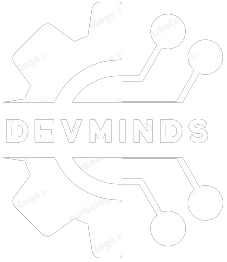
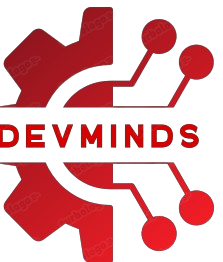
Footer add

diff --git a/src/components/footer/footer.tsx b/src/components/footer/footer.tsx
@@ -1,14 +1,16 @@
 import Box from '@mui/material/Box';
 import Typography from '@mui/material/Typography';
-import Container from '@mui/material/Container';
+import { MdFacebook, MdWhatsapp } from "react-icons/md"
 import Link from '@mui/material/Link';
+import Logo from "./../../assets/s.png"
+import Image from 'next/image';
 
 function Copyright() {
   return (
-    <Typography variant="body2" sx={{color:'#da0037'}}>
+    <Typography variant="body2" sx={{ color: '#da0037' }}>
       {'Copyright © '}
-      <Link color="inherit" href="https://devminds.uz/">
-        Your Website
+      <Link color="inherit" style={{marginRight:'5px'}} href="https://devminds.uz/">
+        One Team Group 
       </Link>
       {new Date().getFullYear()}
       {'.'}
@@ -18,6 +20,7 @@ function Copyright() {
 
 
 export default function StickyFooter() {
+
   return (
     <Box
       component="footer"
@@ -28,12 +31,30 @@ export default function StickyFooter() {
         backgroundColor: "#171718"
       }}
     >
-      <Container maxWidth="sm">
-        <Typography variant="body1" sx={{color:"#ededed"}}>
-          My Personal Blog App
-        </Typography>
-        <Copyright />
-      </Container>
+      <Box sx={{ display: 'flex', justifyContent: 'space-between', flexDirection: 'row', sm: { flexDirection: 'column' } }}>
+        <Box sx={{ display: 'flex', alignItems: 'center', gap: '5px' }}>
+          <Image
+            src={Logo}
+            width={40}
+            height={40}
+            alt="Picture of the logo"
+          />
+          <Typography variant='h5' color={'#da0037'}>
+            Dev Blog
+          </Typography >
+        </Box>
+        <Box>
+          <Box sx={{ display: 'flex', justifyContent: 'center', gap: '10px' }}>
+            <Link href="https://devminds.uz" color={'#da0037'}>
+              <MdFacebook className='icon' />
+            </Link>
+            <Link href="https://devminds.uz" color={'#da0037'}>
+              <MdWhatsapp className='icon' />
+            </Link>
+          </Box>
+          <Copyright />
+        </Box>
+      </Box>
     </Box>
   );
 }

diff --git a/src/pages/index.tsx b/src/pages/index.tsx
@@ -5,7 +5,7 @@ import { Box } from "@mui/material";
 import { useEffect } from "react";
 import { BlogService } from "../services/blog.service";
 import { BlogType } from "../interfaces/blog.interfaces";
-const index = ({blogs}: HomePageProps) => {
+const index = ({ blogs }: HomePageProps) => {
   // useEffect(()=>{
   //   BlogService.getAllBlogs().then(data => console.log(data))
   // },[])
@@ -15,6 +15,7 @@ const index = ({blogs}: HomePageProps) => {
     <>
       <Layout>
         <Head>
+          <meta name="description" content="Blog app" />
           <title>
             Blog App
           </title>

diff --git a/src/styles/globals.css b/src/styles/globals.css
@@ -1,3 +1,7 @@
 body{
   background: #171717!important;
 }
+.icon{
+  width: 35px;
+  height: 35px;
+}
